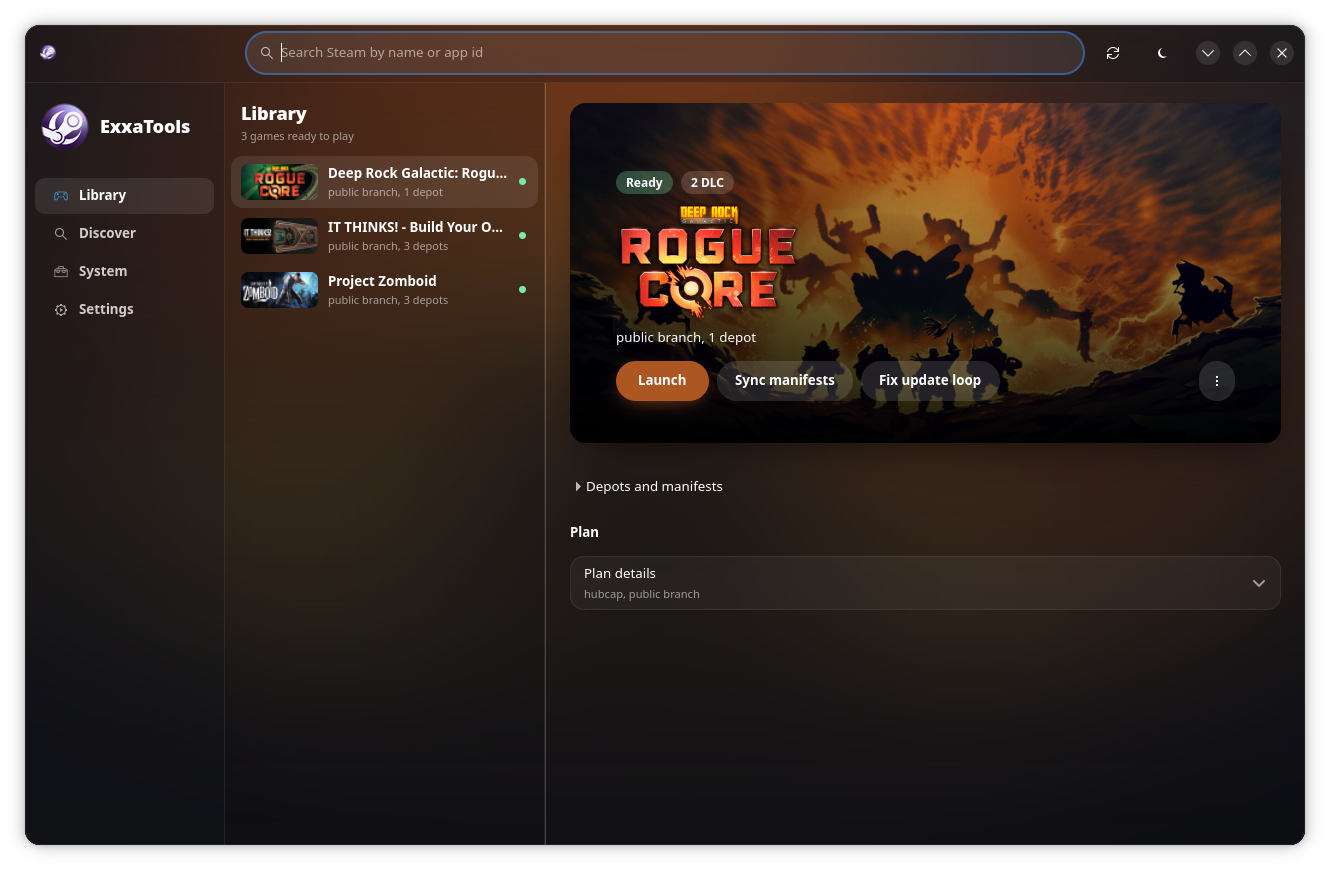
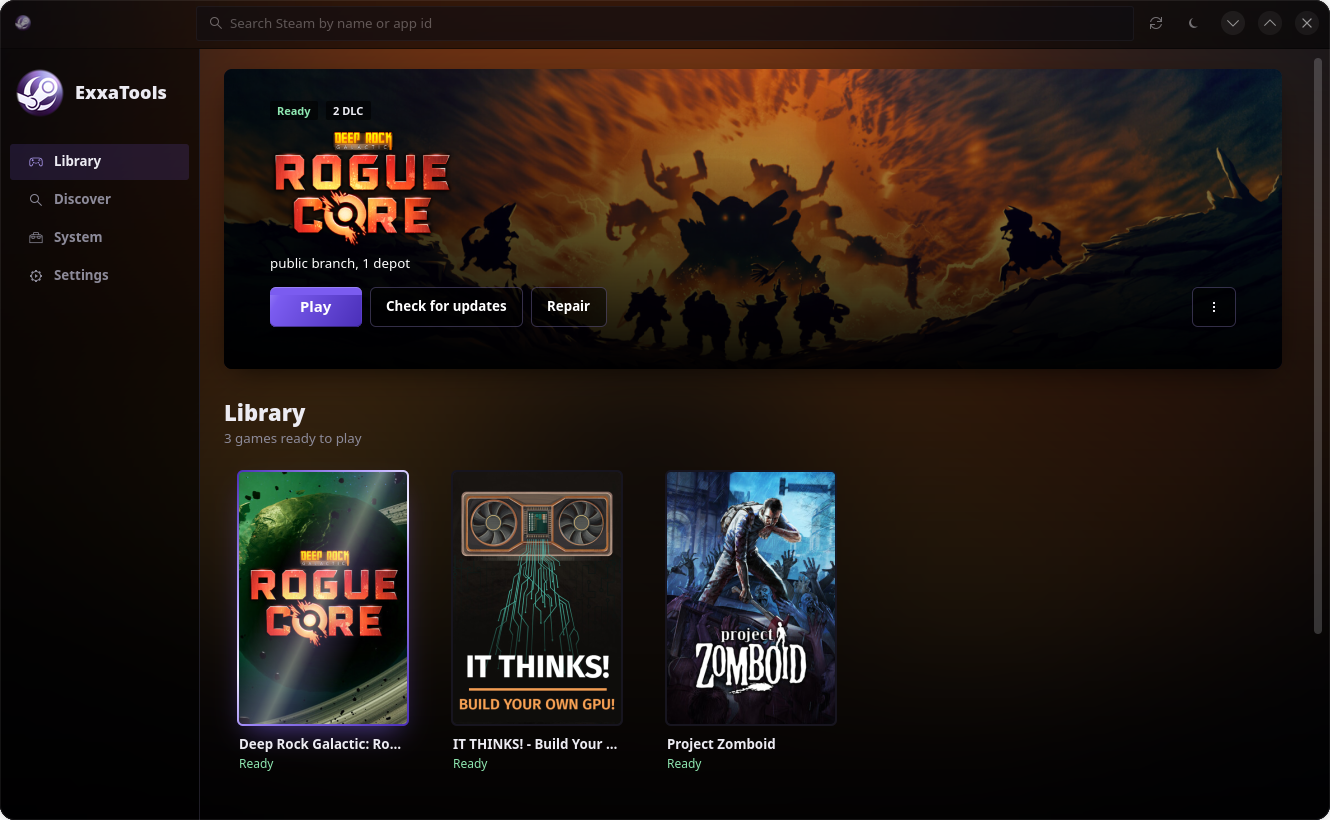
Docs: DESIGN.md and the dashboard screenshot describe Foil Collection
Generated with [Devin](https://devin.ai)

diff --git a/DESIGN.md b/DESIGN.md
@@ -1,5 +1,5 @@
 ---
-name: Pearl Black
+name: Foil Collection
 colors:
   source: "libadwaita named colors and --accent-bg-color redefined per theme in src/ui/theme.rs"
   dark: "#000000 window, header and rail; #0e0d12 cards; #1f1d27 borders; #ecebf2 text"
@@ -21,14 +21,14 @@ rounded:
 components:
   header: "borderless adw::HeaderBar with a pill search, refresh and theme"
   navigation: "native ListBox; soft filled selection, accent icon"
-  library: "shelf list + full-bleed hero with the game's logo over a window-wide blurred backdrop"
+  library: "the selected game's full-bleed hero, then the collection as 2:3 portrait cards; the selected card is the only foil; technical details close the page"
   discover: "featured carousel, then a grid of 2:3 Steam posters with overlay Add buttons"
   details: "depots and plan metadata collapsed until requested"
 ---
 
 ## Overview
 
-ExxaTools is a native Steam companion for a personal game library: find a game, see its state, and launch, add, sync or repair it. The visual direction is **Pearl Black**: pure black chrome, one pearl-violet accent taken from the ExxaTools mark, and the game's own art carrying the rest of the color.
+ExxaTools is a native Steam companion for a personal game library: find a game, see its state, and launch, add, sync or repair it. The visual direction is **Foil Collection** (chosen in an Impeccable shape round): the library is a collection of cards like Steam's trading cards, on pure black chrome with one pearl-violet accent taken from the ExxaTools mark. Pearl foil is the signature move and appears in exactly two places: the selected card, and a card that has just been added.
 
 GTK and libadwaita still own controls, focus behavior and accessibility semantics. The look comes from a redefined neutral palette, real Steam artwork (hero, logo, portrait poster) and a small set of component treatments.
 
@@ -70,7 +70,8 @@ The navigation rail is 200 px (64 px icon-only on narrow windows) and holds only
 
 - **Buttons:** 6 px radius. `suggested-action` is a pearl-violet gradient whose light band slides across on hover (Play included). Hero secondaries are black glass with a faint violet edge.
 - **Filters:** `.segmented` tabs; the current one has a 2 px pearl underline.
-- **Library rows:** 64×30 cover, name, one-line meta, status dot; soft filled selection.
+- **Collection cards:** 168×252 portrait (Steam `library_600x900`), name, state in words coloured by state; the selected card gets a pearl gradient edge and a diagonal sheen (`collection.rs`). Zero games shows an empty state with Browse Discover.
+- **Add:** no confirmation; the poster's button shows a spinner (the banner says Adding…), success flashes the card foil and offers Open in Library, a key-source failure stays 10 s and offers Open Settings.
 - **Discover cards:** 180×270 poster (`library_600x900`, or the store API's hashed `library_capsule_2x`), hover zoom inside the frame, title below, circular overlay Add button that turns accent on hover and green when added. A header-only title is contained over its own blurred art.
 - **Art loading:** every image goes through `src/ui/art.rs`: one decoder thread, a 48 MB LRU, a skeleton while loading and a 220 ms fade on arrival.
 
